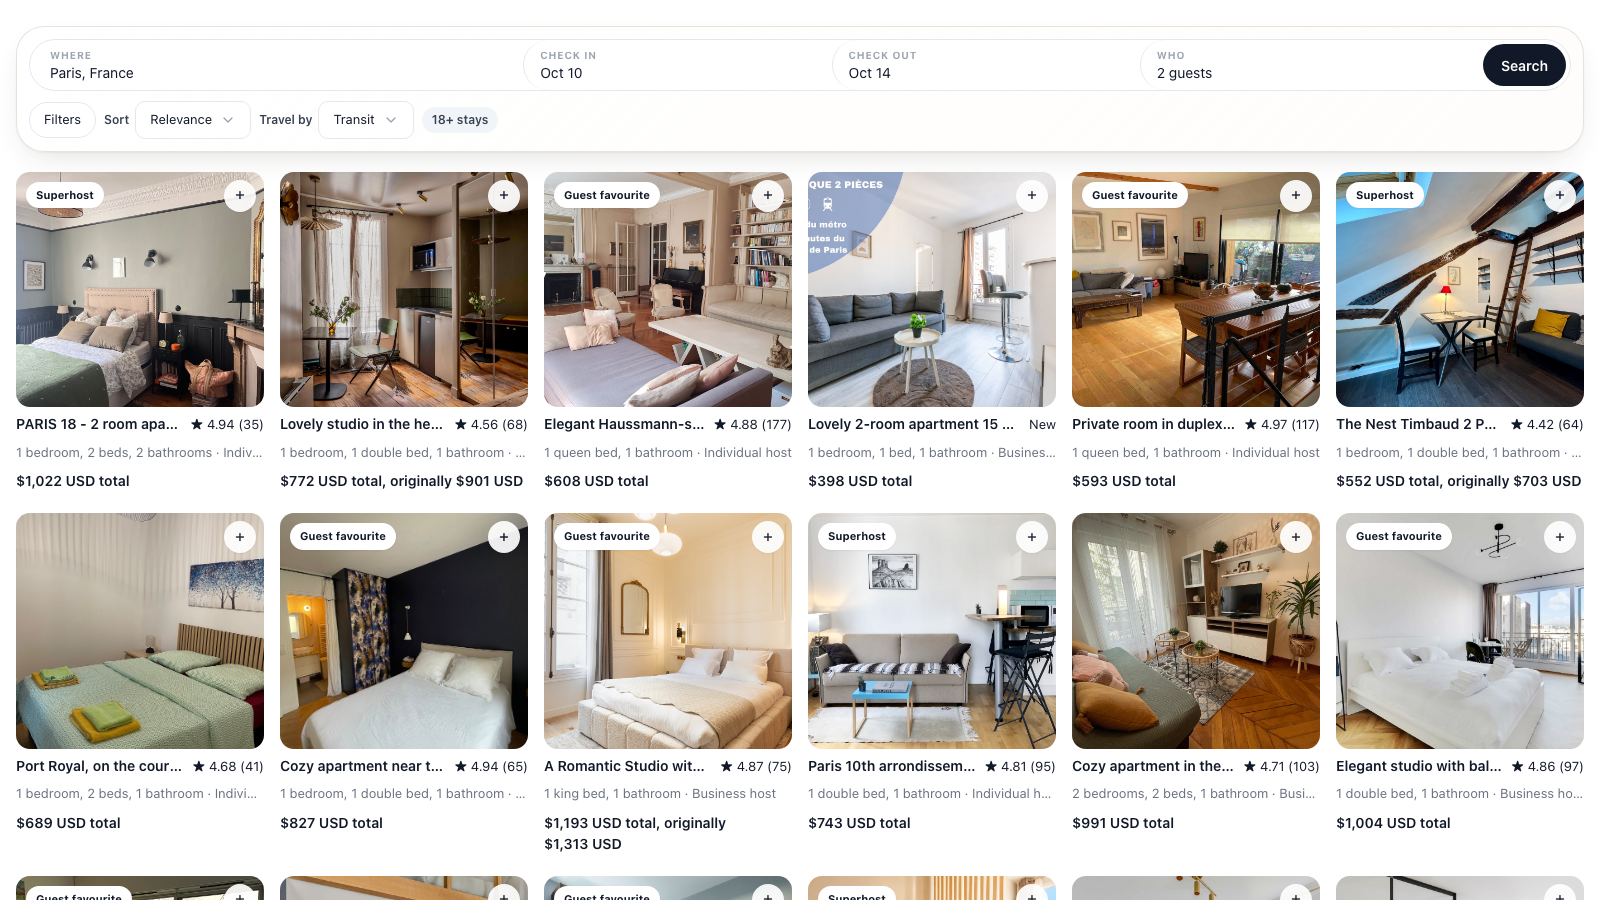
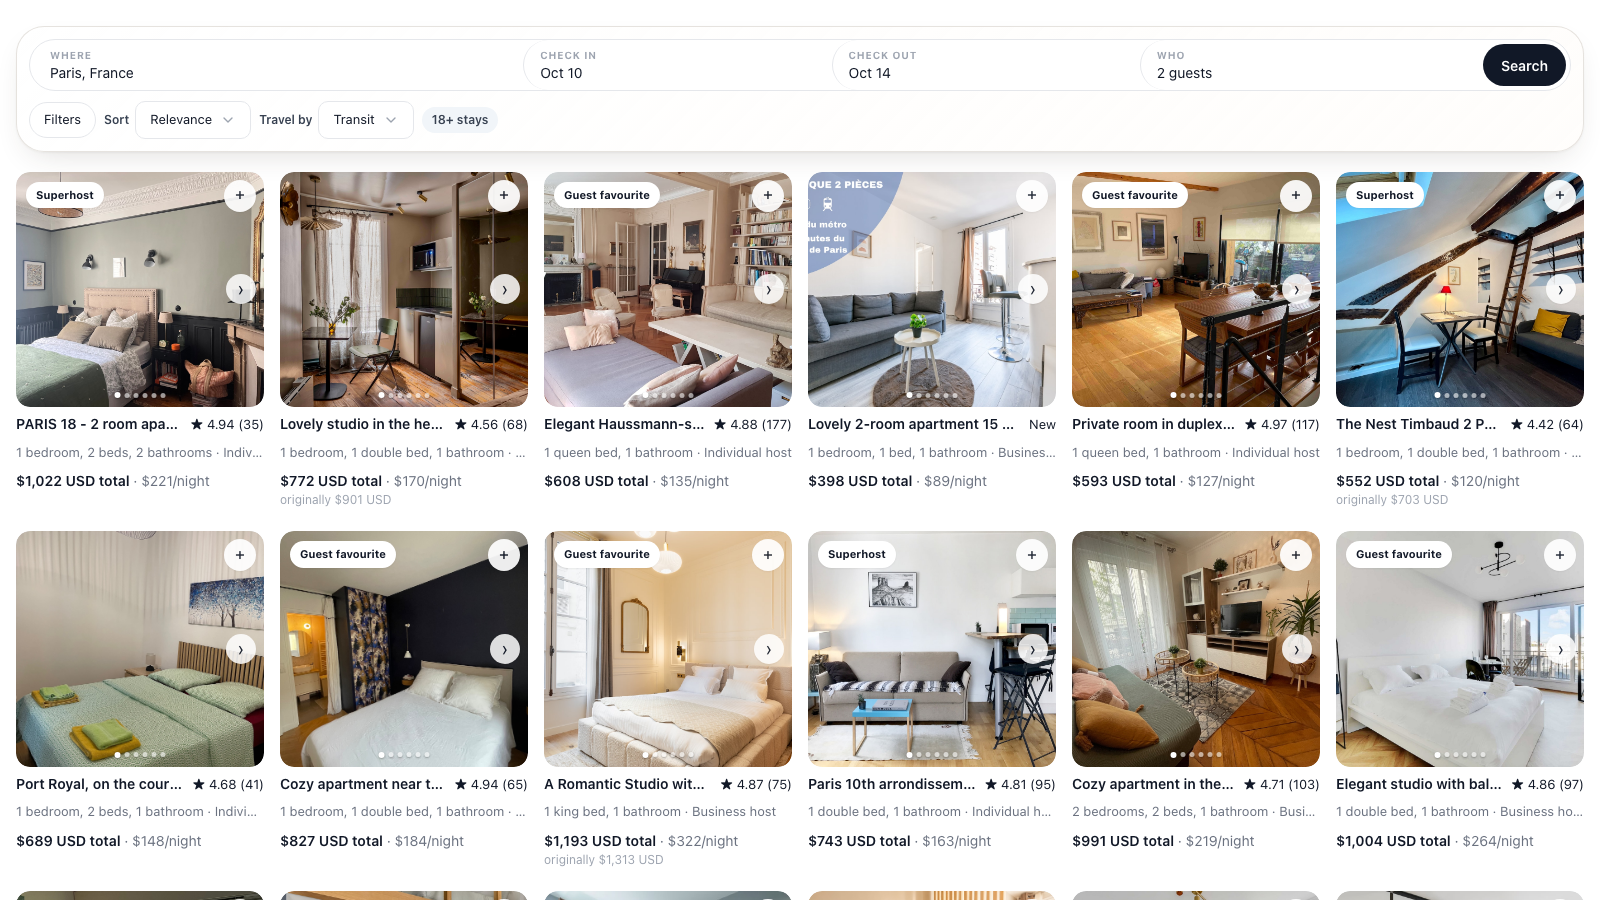
fix: give a discounted stay's old price its own line
A card whose label reads "$1,193 USD total, originally $1,313 USD" printed
the whole clause inline next to the nightly rate, wrapping the busiest cards
to three lines while their neighbours used one — visible in the screenshot
as a grid that would not line up.

The old price is worth keeping; it is the reason the stay is a deal. So it
moves to a quiet line of its own rather than being dropped. The clause is
English, so a locale wording it differently falls through and prints the
label as before.

Screenshot regenerated against real Paris data.

Claude-Session: https://claude.ai/code/session_012dEPPfLSRNDT6XaxPZDJjr

diff --git a/client/index.html b/client/index.html
@@ -280,6 +280,9 @@
     .card-price { font-size: 14px; color: var(--text-primary); }
     .card-price .amount { font-weight: 600; }
     .card-nightly { color: var(--text-muted); }
+    /* The was-price gets its own line: printed inline it pushed the busiest cards to
+       three lines while their neighbours used one. */
+    .card-was { display: block; font-size: 12px; color: var(--text-faint); }
     /* The breakdown in the detail view: a small ledger, right-aligned figures. */
     .price-rows { display: grid; gap: 4px; max-width: 340px; }
     .price-row { display: flex; justify-content: space-between; gap: 16px; font-size: 13px; color: var(--text-secondary); }
@@ -1118,6 +1121,23 @@
     return per ? per + '/night' : null;
   }
 
+  /**
+   * Split "$1,193 USD total, originally $1,313 USD" into the price and the was-price.
+   *
+   * A discounted stay's label carries both, and printing it whole next to the nightly
+   * rate made the busiest cards wrap to three lines while their neighbours used one.
+   * The old price is worth keeping — it is the reason the stay is a deal — so it moves
+   * to a line of its own rather than being thrown away.
+   *
+   * The clause is English, so a locale that words it differently simply falls through
+   * and prints the label as before. Nothing is lost either way.
+   */
+  function splitPriceLabel(label) {
+    var text = String(label || '');
+    var m = text.match(/^(.*?),\s*(originally\s+.*)$/i);
+    return m ? { main: m[1], was: m[2] } : { main: text, was: null };
+  }
+
   function ratingText(l) {
     if (l.rating == null) return 'New';
     return '★ ' + l.rating + (l.reviews != null ? ' (' + l.reviews + ')' : '');
@@ -1142,6 +1162,7 @@
     var pics = Array.isArray(l.photos) ? l.photos : [];
     var at = Math.max(0, Math.min(pics.length - 1, Number(cardPhotoIndex[String(l.id)]) || 0));
     var dotAt = Math.min(at, 5);
+    var price = splitPriceLabel(l.priceLabel);
     var media = pics.length
       ? '<img class="thumb" alt="Photo ' + (at + 1) + ' of ' + pics.length + ' for ' + esc(l.name) + '" ' +
           'loading="lazy" data-card-at="' + at + '" data-photo="' + esc(pics[at]) + '" />'
@@ -1179,8 +1200,9 @@
         // rate hides how long the stay is and a rate without a total is what booking
         // sites got regulated for.
         '<div class="card-price">' +
-          '<span class="amount">' + esc(l.priceLabel || '—') + '</span>' +
+          '<span class="amount">' + esc(price.main || '—') + '</span>' +
           (nightlyText(l) ? '<span class="card-nightly"> · ' + esc(nightlyText(l)) + '</span>' : '') +
+          (price.was ? '<span class="card-was">' + esc(price.was) + '</span>' : '') +
         '</div>' +
         '<div class="commute" data-commute="' + esc(l.id) + '"' +
           (commuteTimes[String(l.id)] && commuteTimes[String(l.id)].length ? '' : ' hidden') + '>' +
